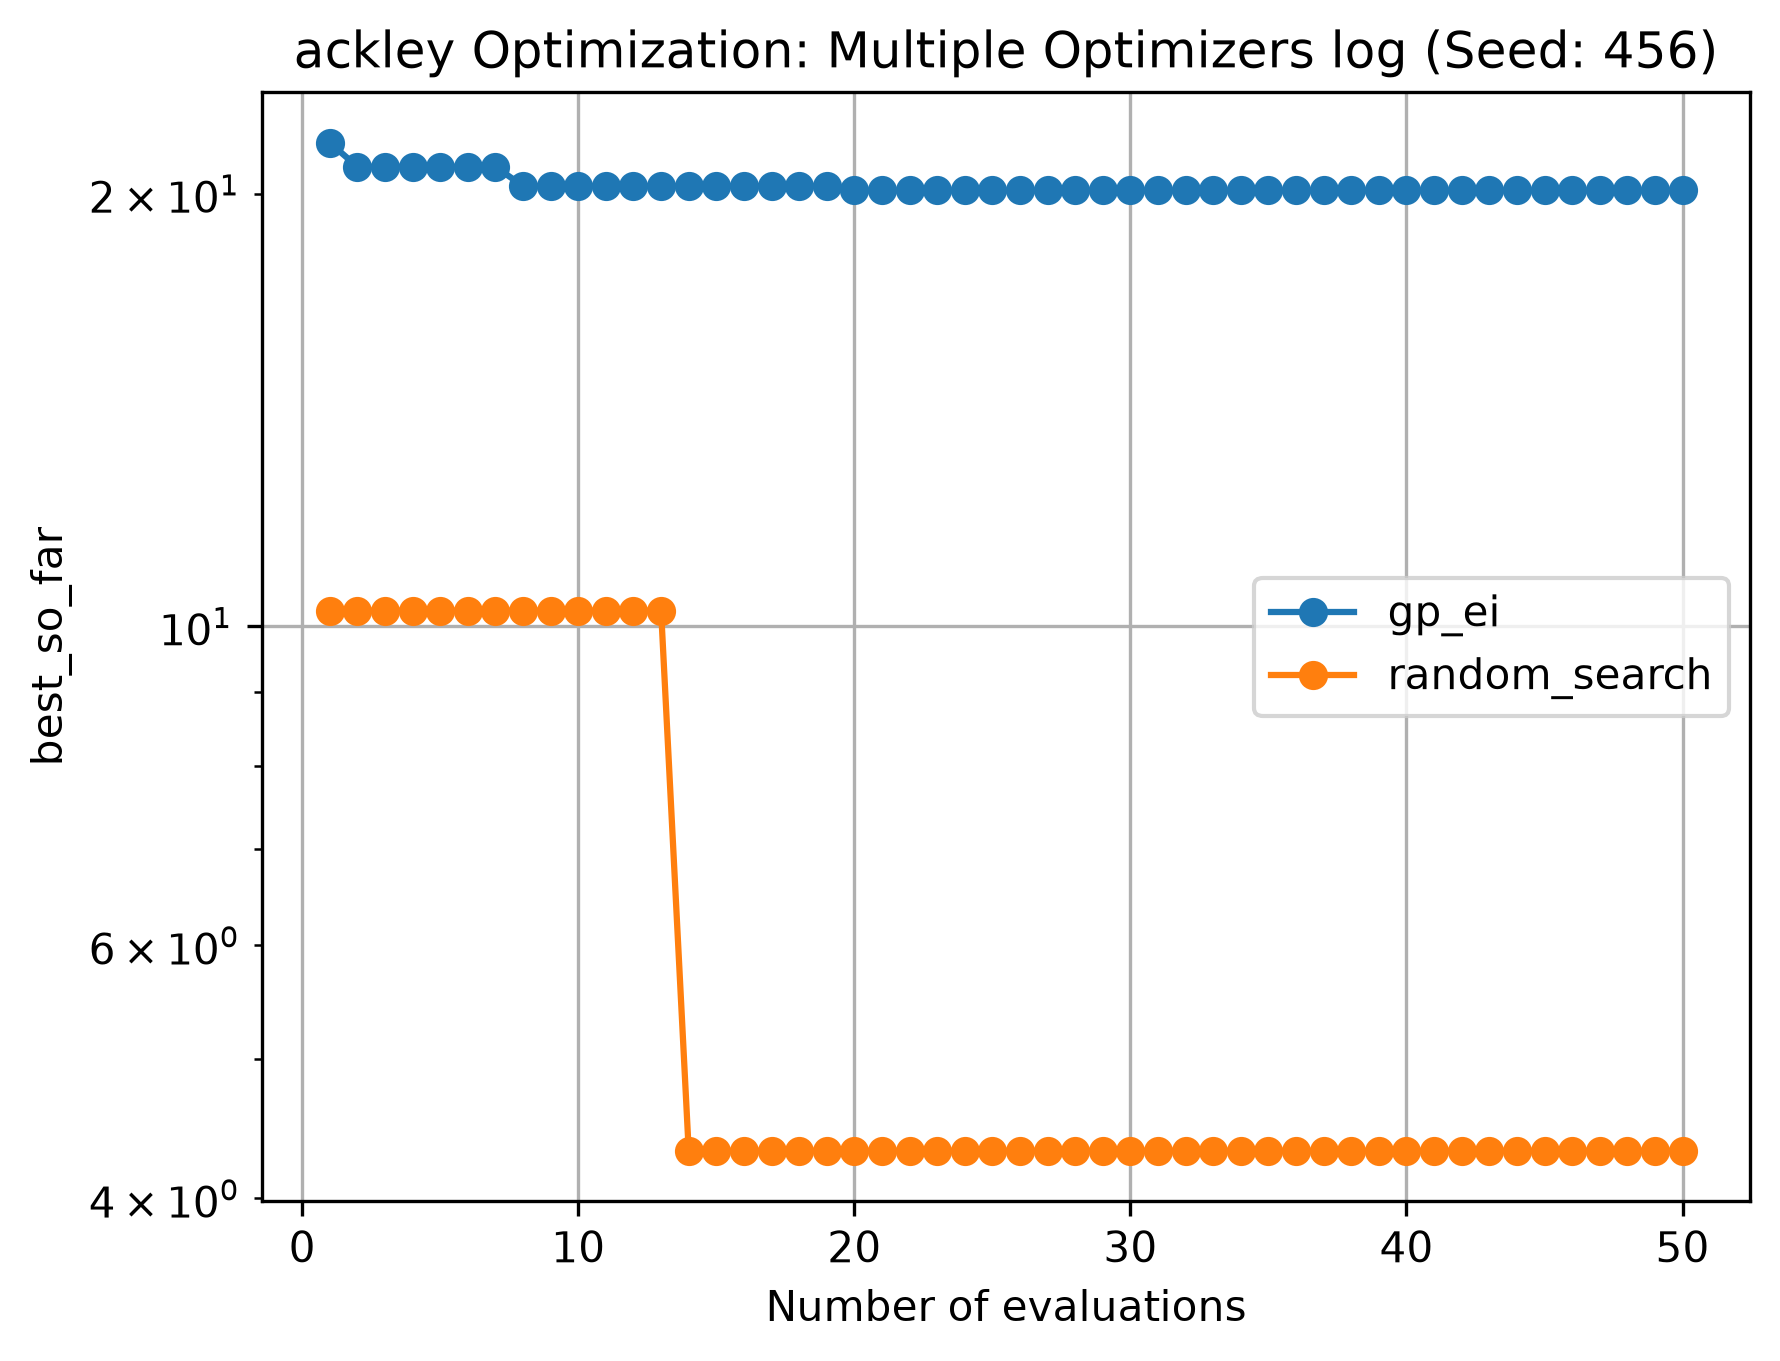
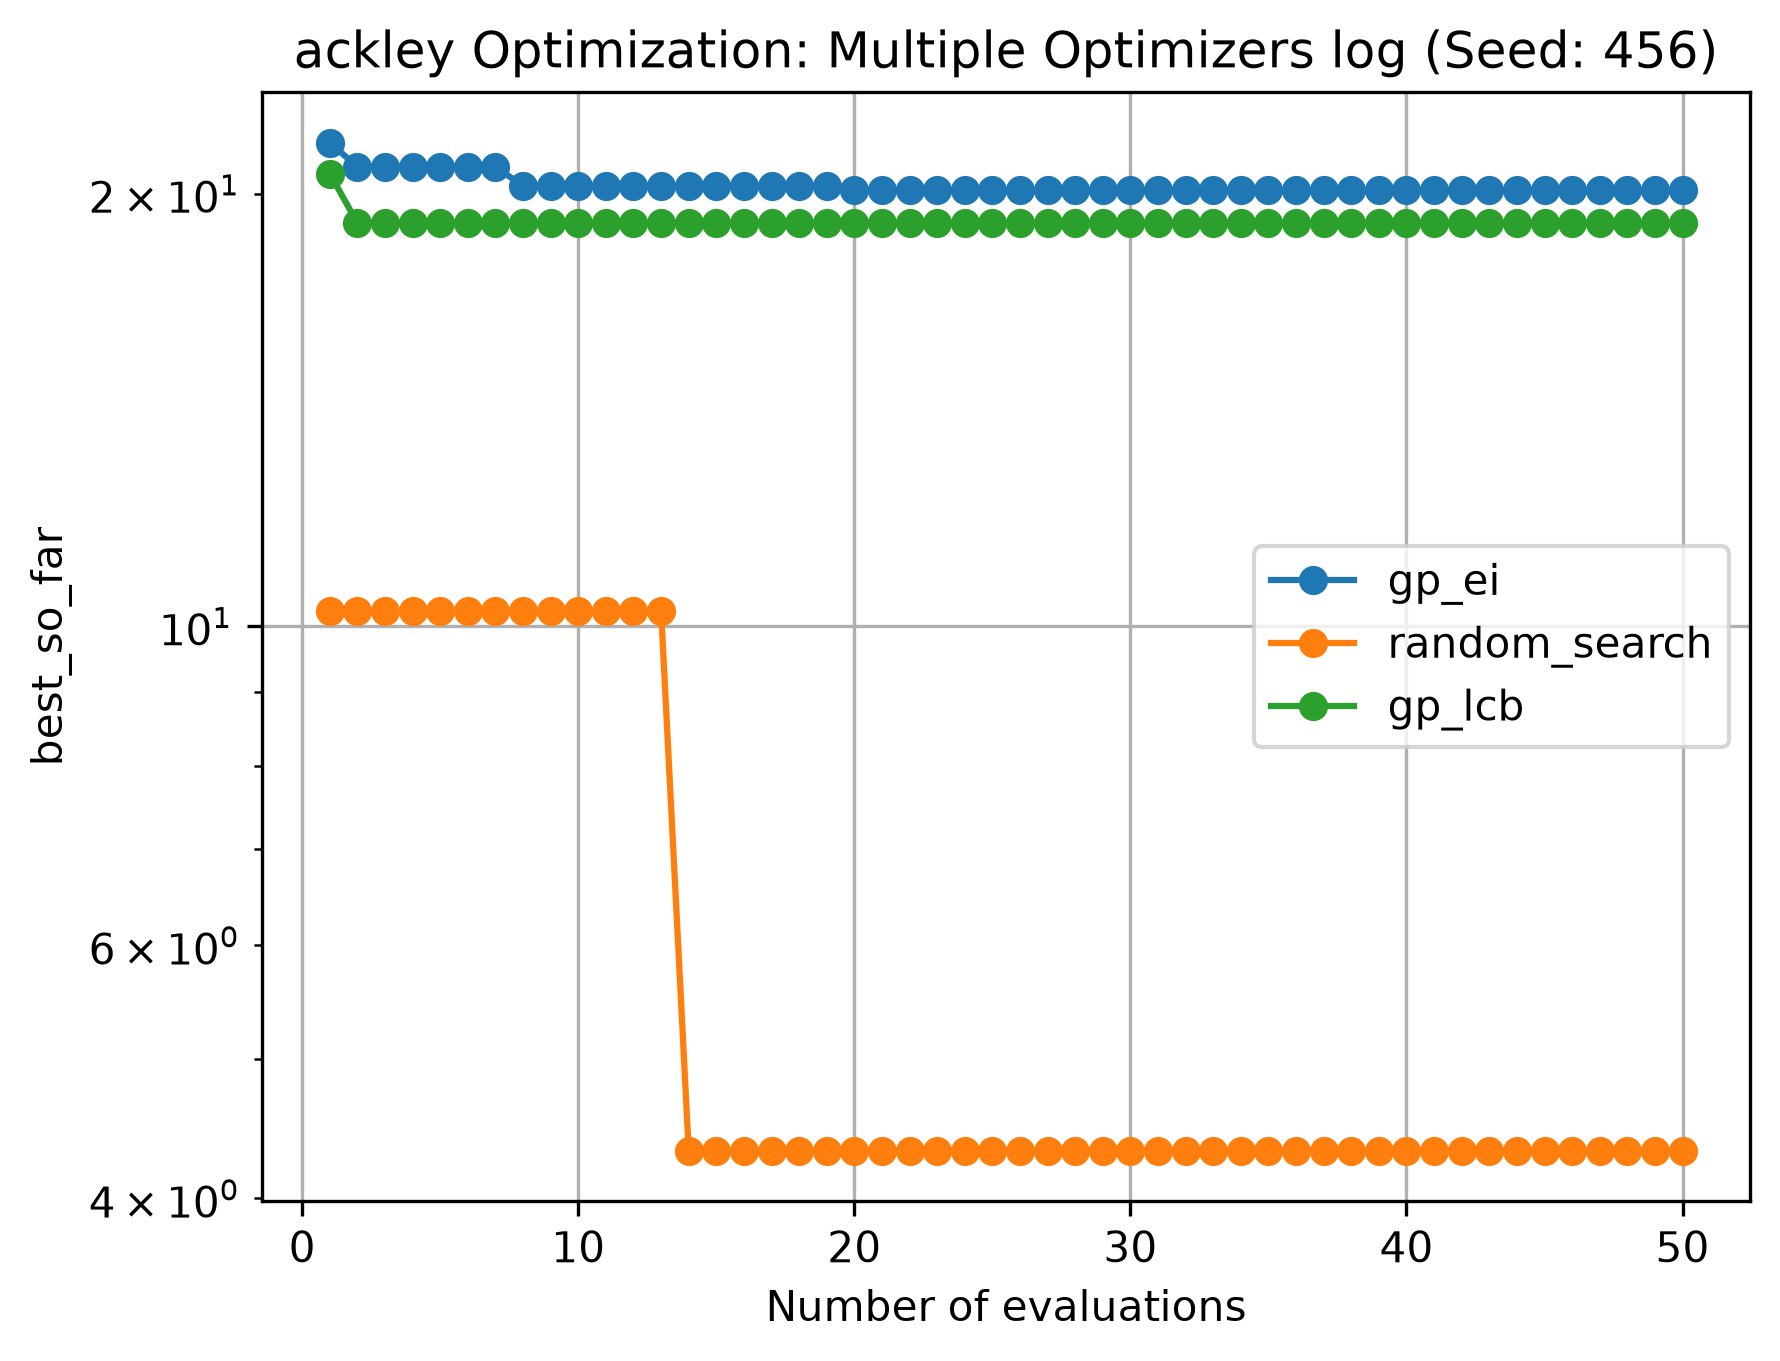
implemented gp with lower confidence bound, and changed folder structures in results

Changed region(s): [[0.7107, 0.4012, 0.9888, 0.5555], [0.1545, 0.1234, 0.9579, 0.1852]]

diff --git a/src/bayesbench/optimizers/gp.py b/src/bayesbench/optimizers/gp.py
@@ -1,0 +1,38 @@
+import numpy as np
+from collections.abc import Callable
+
+from sklearn.gaussian_process import GaussianProcessRegressor
+from sklearn.gaussian_process.kernels import ConstantKernel, Matern, WhiteKernel
+
+from bayesbench.optimizers.random_search import sample_uniform
+
+def make_gp_model(random_state:int = 42) -> GaussianProcessRegressor:
+    """
+    Create a Gaussian Process surrogate model for Bayesian optimization.
+    """
+    kernel = (
+        ConstantKernel(1.0, constant_value_bounds=(1e-3, 1e3))
+        * Matern(length_scale=1.0, length_scale_bounds=(1e-2, 1e2), nu=2.5)
+        + WhiteKernel(noise_level=1e-6, noise_level_bounds=(1e-10, 1e-2))
+    )
+
+    return GaussianProcessRegressor(
+        kernel=kernel,
+        normalize_y=True,
+        n_restarts_optimizer=5,
+        random_state=random_state,
+    )
+
+def generate_candidate_points(
+    bounds: np.ndarray,
+    n_candidates: int,
+    rng: np.random.Generator
+    ) -> np.ndarray:
+    """
+    Generate random candidate n points (x1, x2) where Expected Improvement is evaluated. 
+    This is used to get next sample point to evaluate the objective fucntion
+    """
+    return np.array(
+        [sample_uniform(bounds, rng) for _ in range(n_candidates)]
+    )
+

diff --git a/src/bayesbench/experiments/run_experiments.py b/src/bayesbench/experiments/run_experiments.py
@@ -4,6 +4,7 @@ run experiments on branin objective function using random_search method
 from collections.abc import Callable
 from bayesbench.optimizers.random_search import random_search
 from bayesbench.optimizers.gp_ei import gp_expected_improvement
+from bayesbench.optimizers.gp_lcb import gp_lcb
 from pathlib import Path
 import numpy as np
 import pandas as pd
@@ -32,25 +33,40 @@ def do_experiments(bounds: np.ndarray, budget: int, seed: int, objective: Callab
     #sample inputs and get outputs on objective and return Lists
     name = objective.__name__
     rng = np.random.default_rng(seed=seed)
+
+    # ---- random_search ----
+    results_dir = Path(f"results/{name}/random/")
+    results_dir.mkdir(parents=True, exist_ok=True)
     X, y = random_search(objective=objective, bounds=bounds, budget=budget, rng=rng)
     df_random = make_results_df(X, y, optimizer="random_search")
-
-    results_dir = Path(f"results/{name}")
-    results_dir.mkdir(exist_ok=True)
-
-    output_path = results_dir / f"random_search_{seed}.csv"
+    output_path = results_dir / f"{seed}.csv"
     df_random.to_csv(output_path, index=False)
 
     print()
     print(f"Saved results to: {output_path}")
     print(f"Best value found: {df_random['best_so_far'].iloc[-1]:.6f}")
 
+    # ---- gp_ei ----
+    results_dir = Path(f"results/{name}/gp_ei")
+    results_dir.mkdir(parents=True, exist_ok=True)
     X, y = gp_expected_improvement(objective=objective, bounds= bounds, 
                                    budget=budget, rng=rng, random_state=seed)
     df_gp_ei = make_results_df(X, y, optimizer="gp_ei")
+    output_path = results_dir / f"{seed}.csv"
+    df_gp_ei.to_csv(output_path, index=False)
 
-    out_put_path = results_dir / f"gp_ei_{seed}.csv"
-    df_gp_ei.to_csv(out_put_path, index=False)
     print()
     print(f"Saved results to: {output_path}")
     print(f"Best value found: {df_gp_ei['best_so_far'].iloc[-1]:.6f}")
+
+    # ---- gp_lcb ----
+    results_dir = Path(f"results/{name}/gp_lcb")  
+    results_dir.mkdir(parents=True, exist_ok=True)
+
+    X, y = gp_lcb(objective=objective, bounds=bounds, budget=budget, rng=rng, random_state=seed)
+    df_gp_lcb = make_results_df(X, y, optimizer="gp_lcb")
+    output_path = results_dir / f"{seed}.csv"
+    df_gp_lcb.to_csv(output_path, index=False)
+
+    print(f"Saved results to: {output_path}")
+    print(f"Best value found: {df_gp_lcb['best_so_far'].iloc[-1]:.6f}")

diff --git a/src/bayesbench/visualization/plot.py b/src/bayesbench/visualization/plot.py
@@ -144,10 +144,12 @@ def plot_regret(input_path: str, output_path: str, title: str, seed: int) -> Non
 
 
 def plot_all(seed: int, objective_str: str)-> None:
-    input_path_gp_ei = f"results/{objective_str}/gp_ei_{seed}.csv"
-    input_path_random_search = f"results/{objective_str}/random_search_{seed}.csv"
+    input_path_gp_ei = f"results/{objective_str}/gp_ei/{seed}.csv"
+    input_path_random_search = f"results/{objective_str}/random/{seed}.csv"
+    input_path_gp_lcb = f"results/{objective_str}/gp_lcb/{seed}.csv"
 
-    output_path = f"results/{objective_str}/gp_ei_{seed}.png"
+# ----gp_ei----
+    output_path = f"results/{objective_str}/gp_ei/{seed}.png"
     plot_best_so_far(
         input_path=input_path_gp_ei,
         output_path=output_path,
@@ -157,8 +159,8 @@ def plot_all(seed: int, objective_str: str)-> None:
 
     print(f"Saved plot to: {output_path}")
 
-    output_path = f"results/{objective_str}/random_search_{seed}.png"
-
+# ----random_search----
+    output_path = f"results/{objective_str}/random/{seed}.png"
     plot_best_so_far(
         input_path=input_path_random_search,
         output_path=output_path,
@@ -168,8 +170,21 @@ def plot_all(seed: int, objective_str: str)-> None:
 
     print(f"Saved plot to: {output_path}")
 
+# ----gp_lcb----
+    output_path = f"results/{objective_str}/gp_lcb/{seed}.png"
+
+    plot_best_so_far(
+        input_path=input_path_gp_lcb,
+        output_path=output_path,
+        title=f"{objective_str} Optimization: Gaussian Process Lower Confidence Bound",
+        seed=seed
+    )
+
+    print(f"Saved plot to: {output_path}")
+
+# ----multi plot----
     output_path = f"results/{objective_str}/multi_opt_{seed}.png"
-    input_paths = [input_path_gp_ei, input_path_random_search]
+    input_paths = [input_path_gp_ei, input_path_random_search, input_path_gp_lcb]
 
     plot_multi_opt_best_so_far(
         input_paths=input_paths,

diff --git a/src/bayesbench/acquisition_functions/lower_confidence_bound.py b/src/bayesbench/acquisition_functions/lower_confidence_bound.py
@@ -1,0 +1,19 @@
+"""
+This file implements Lower Confidence Bound (LCB), type of acquisition function used in Bayesian optimization
+
+a(x) = mean(x) - c*sigma(x), where mean is predicted mean of objective function (exploitation, likely to be good), 
+sigma is predicted standard diviation or uncertainty (exploration, uncertain area), and c is tuning parameter.
+
+https://ekamperi.github.io/machine%20learning/2021/06/11/acquisition-functions.html
+"""
+
+import numpy as np
+
+def lower_confidence_bound(mean: np.ndarray, stddiv: np.ndarray, param: float) -> np.ndarray:
+    """
+    lower confidence bound acquisition function
+    - mean is computed mean of GP (sarogate model) at candidates points, smaller is better
+    - stddiv is computed standard diviation of GP at candidate points, larger is better
+    - param is tunable parameter
+    """
+    return mean - param * stddiv

diff --git a/src/bayesbench/experiments/run_ackley.py b/src/bayesbench/experiments/run_ackley.py
@@ -10,10 +10,9 @@ import pandas as pd
 def main():
     d = 2
     bounds = ackley_bounds(d=d)
-    print(bounds)
     budget = 50
     seeds = [42, 0, 456]  # Example seeds for reproducibility
-    seed = seeds[1]
+    seed = seeds[2]
     do_experiments(bounds, budget, seed, ackley)
 if __name__ == "__main__":
     main()

diff --git a/src/bayesbench/visualization/plot_ackley.py b/src/bayesbench/visualization/plot_ackley.py
@@ -4,7 +4,7 @@ from bayesbench.visualization.plot import plot_all
 
 
 def main() -> None:
-    seed = 0
+    seed = 456
     plot_all(seed, "ackley")
 if __name__ == "__main__":
     main()